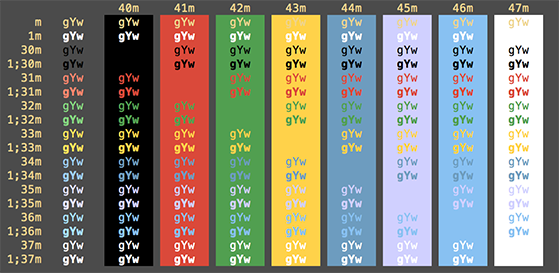
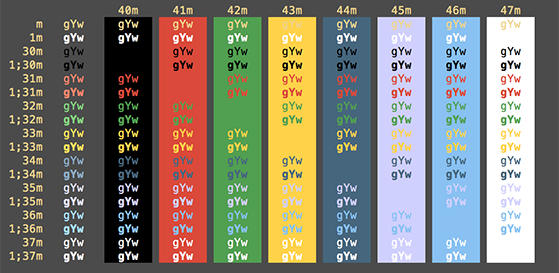
Renault style light changed dark blue color

diff --git a/screenshots/README.md b/screenshots/README.md
@@ -404,6 +404,14 @@ Screenshots
 
 ![image](red_sands.png)
 
+`renault_style.png`
+
+![image](renault_style.png)
+
+`renault_style_light.png`
+
+![image](renault_style_light.png)
+
 `rippedcasts.png`
 
 ![image](rippedcasts.png)
